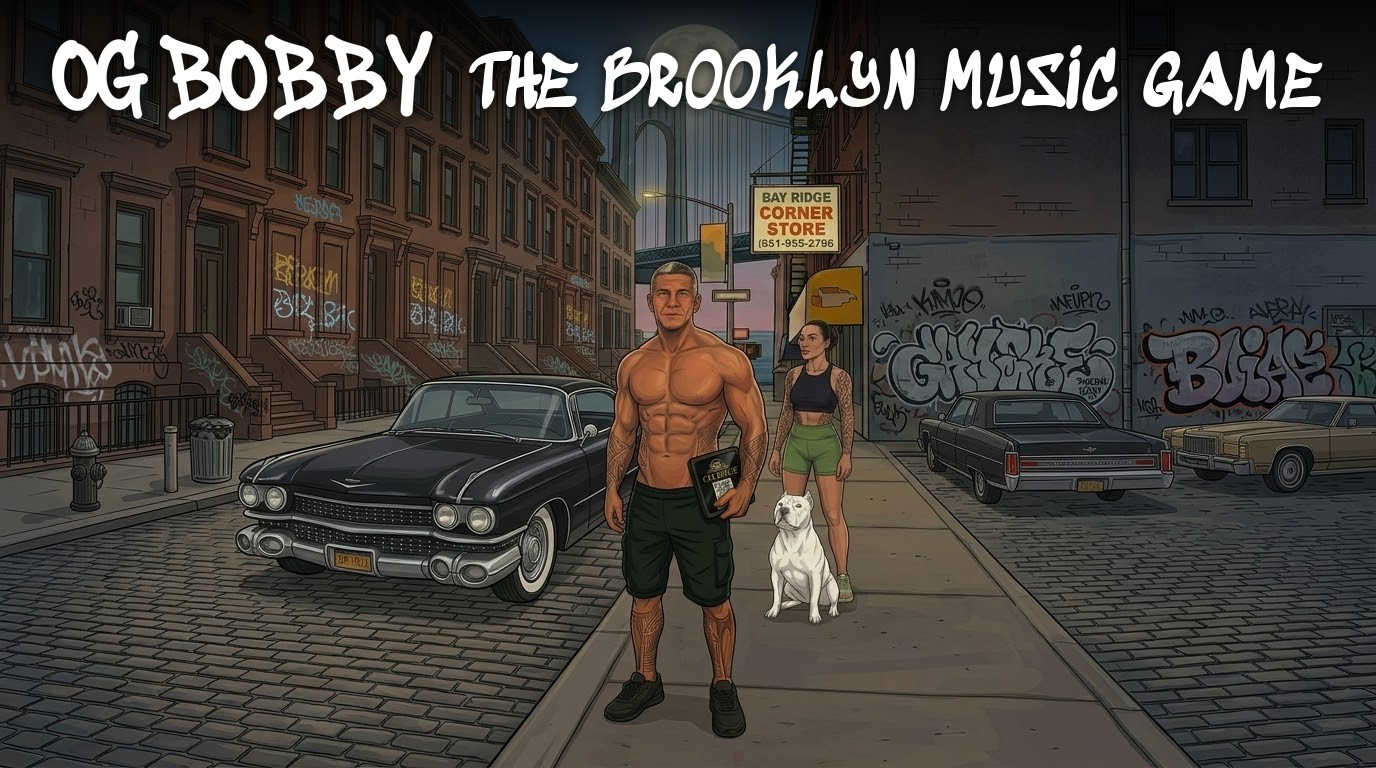
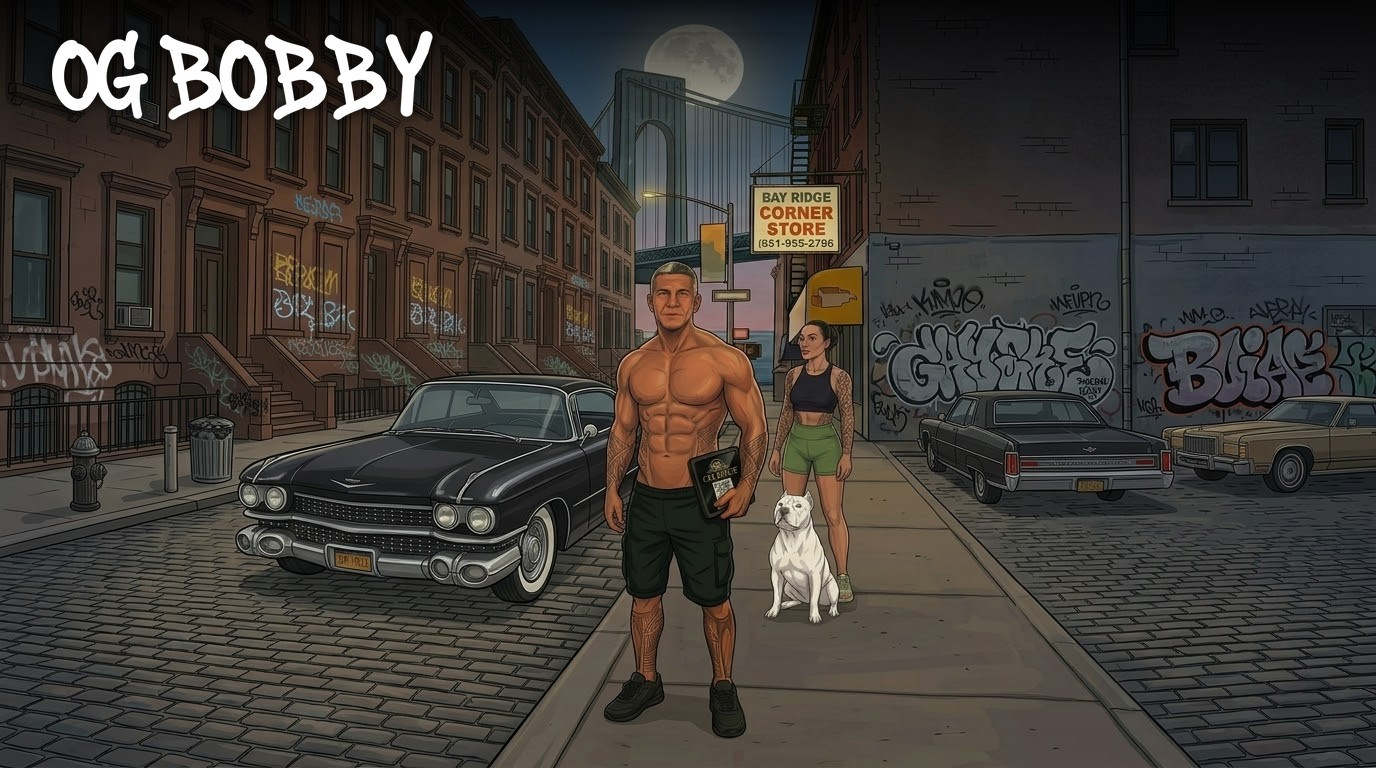
Share preview: drop THE BROOKLYN MUSIC GAME lettering so the bridge shows; keep graffiti OG BOBBY
Claude-Session: https://claude.ai/code/session_01GmnA1aMzkCmRd3DbxgtJcD

Changed region(s): [[0.3438, 0.0625, 0.9688, 0.1562]]

diff --git a/index.html b/index.html
@@ -10,7 +10,7 @@
 <meta property="og:title" content="The Brooklyn Music Game">
 <meta property="og:description" content="Listen to the songs, answer what you heard, unlock the story. Earn Street Cred and climb from New Face to OG — a Bay Ridge life, one level at a time.">
 <meta property="og:url" content="https://ogbobbybrooklyn.com/">
-<meta property="og:image" content="https://ogbobbybrooklyn.com/share-game.jpg">
+<meta property="og:image" content="https://ogbobbybrooklyn.com/share-game.jpg?v=2">
 <meta property="og:image:type" content="image/jpeg">
 <meta property="og:image:width" content="1376">
 <meta property="og:image:height" content="768">
@@ -18,7 +18,7 @@
 <meta name="twitter:card" content="summary_large_image">
 <meta name="twitter:title" content="The Brooklyn Music Game">
 <meta name="twitter:description" content="Listen to the songs, answer what you heard, unlock the story. Earn Street Cred and climb from New Face to OG — a Bay Ridge life, one level at a time.">
-<meta name="twitter:image" content="https://ogbobbybrooklyn.com/share-game.jpg">
+<meta name="twitter:image" content="https://ogbobbybrooklyn.com/share-game.jpg?v=2">
 <link rel="icon" href="cover.png">
 <link rel="apple-touch-icon" href="cover.png">
 <link rel="preconnect" href="https://fonts.googleapis.com">
